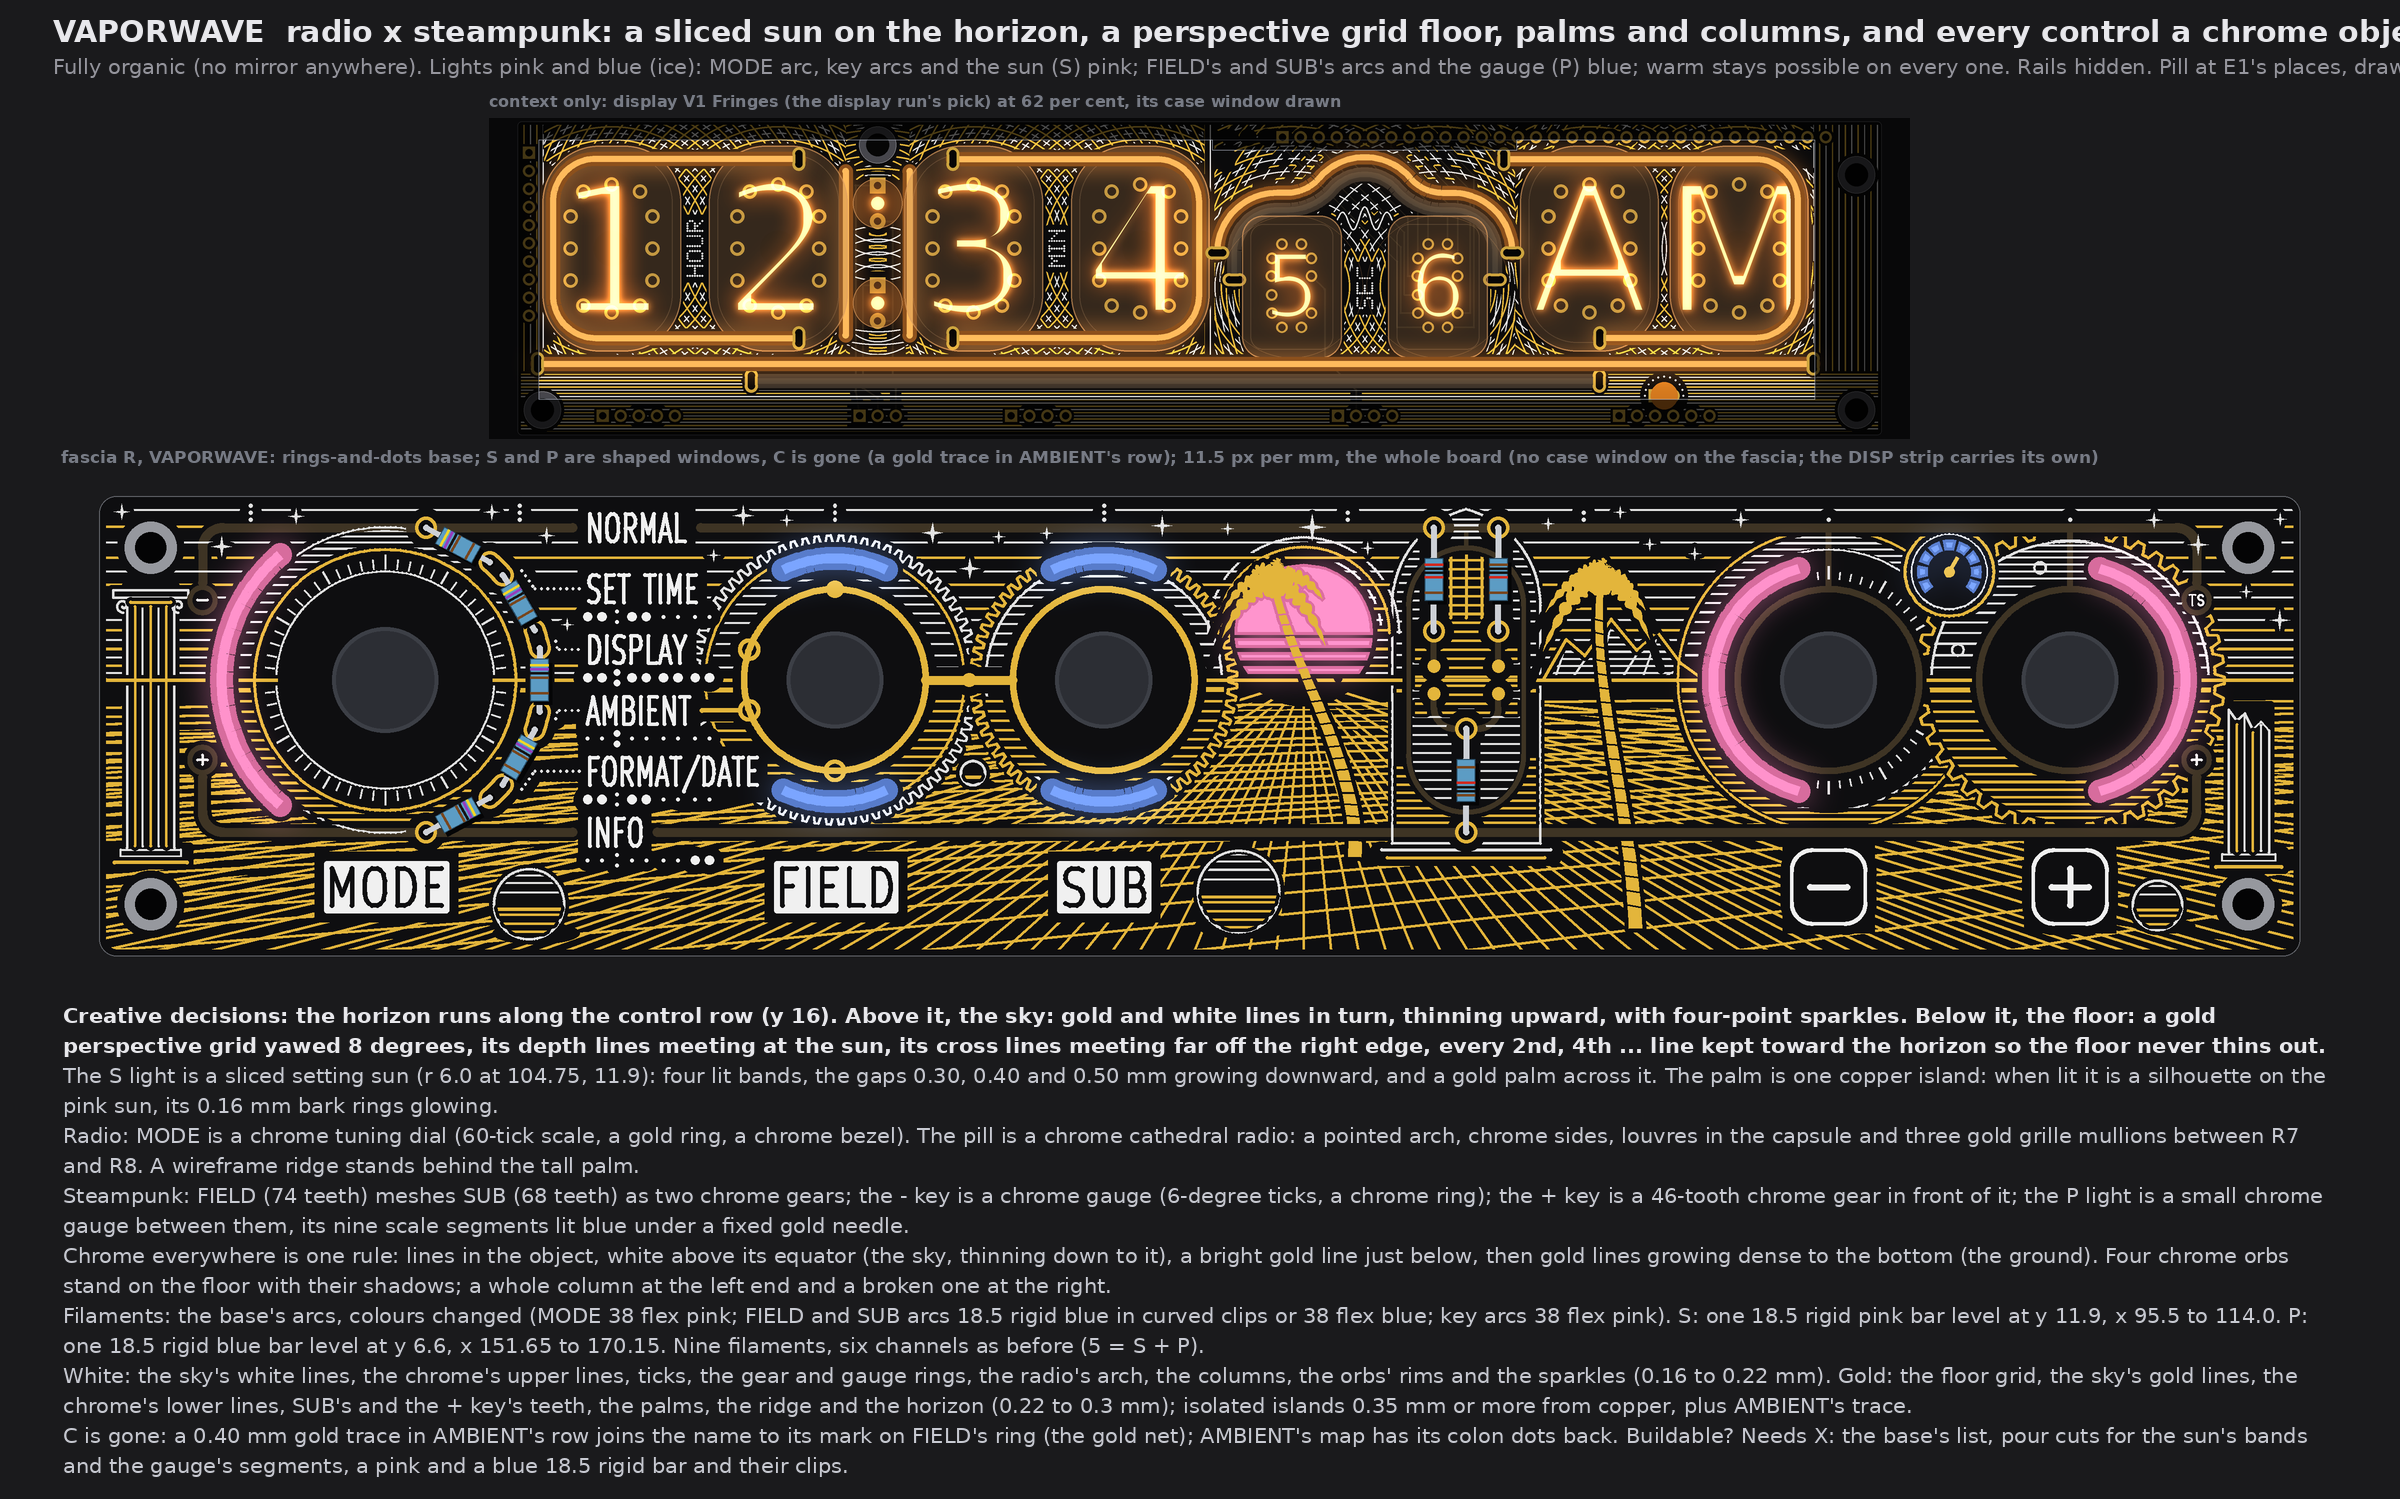
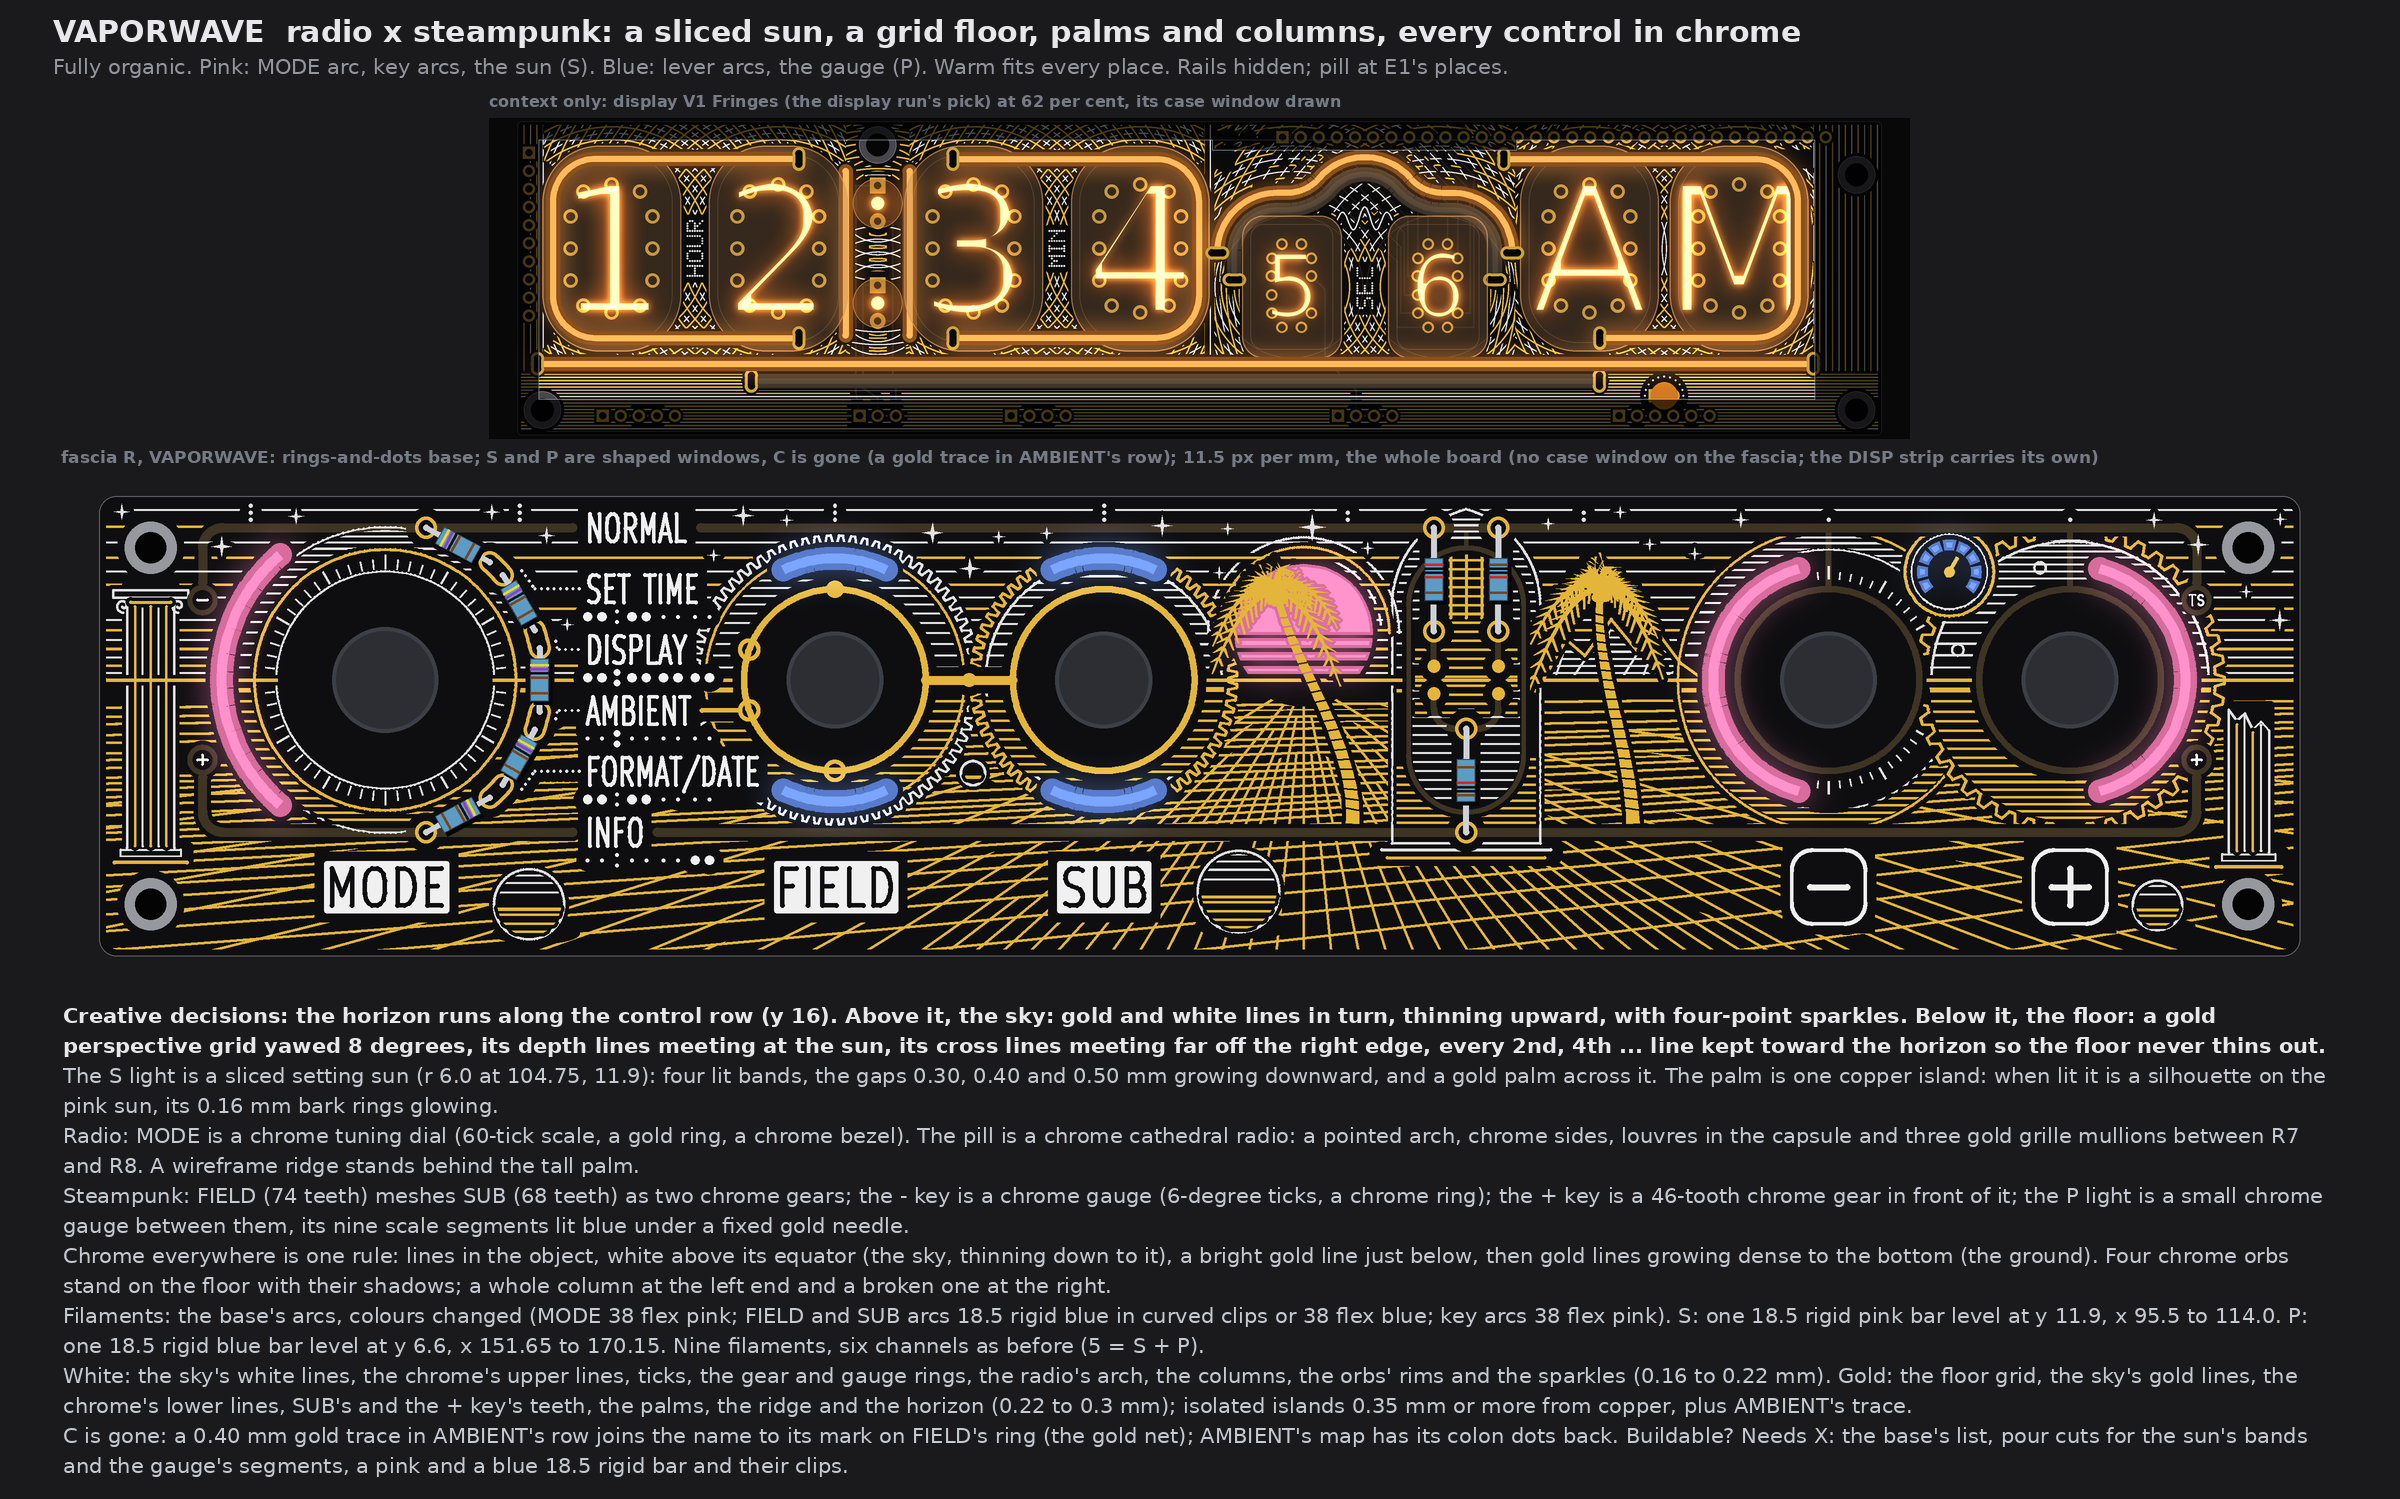
PCB/art: TS06 fascia VAPORWAVE write-up, detail, back view and contact sheet; face after the full-size look (drawings only)
Claude-Session: https://claude.ai/code/session_01WoV3gyAFgmtuk6W6Dr4bdA

diff --git a/PCB/art/TS06-FASCIA-VAPORWAVE.md b/PCB/art/TS06-FASCIA-VAPORWAVE.md
@@ -1,0 +1,172 @@
+# TS06 fascia, VAPORWAVE: radio and steampunk mixed into one final face (drawings only, nothing built)
+
+2026-10-14, run fascia-VAPORWAVE. The owner's words (22:2x UTC): "mix radio and steampunk for a final VAPORWAVE fascia option". One
+face, wild, the whole board full. It starts from `TS06-FASCIA-radio.md` and `TS06-FASCIA-steampunk.md` and their faces:
+* radio gives the tuning dial, the deco grille in a cathedral radio, and the wireframe ridge;
+* steampunk gives the meshed gears and the gauges;
+* the vaporwave idiom gives the rest: a sliced setting sun, a perspective grid floor to a horizon, palms and columns, chrome objects,
+  and pink and blue light.
+
+Queue changes A1 to A5 are in:
+* no top-edge dots: S and P light shaped windows (the sun and a gauge);
+* the pill and the rails are said below;
+* display V1 Fringes is in the strip above the face and above it on the contact sheet;
+* the AMBIENT cutout C is gone, with a gold trace in its row.
+
+The face is fascia R with the owner's rings-and-dots (front-merge section 6), drawn from the board file's copy that pass 4 used, at
+one scale (11.5 px per mm), windows lit. No board, schematic, fab, tool, 3D, firmware or spec file was touched. The scripts are scratch
+(copies of the radio and steampunk runs' base and checks, plus a new vaporwave script), not in the repo.
+
+Marks: *measured* is from the drawing's raster (23 px per mm) or the board file; *inferred* is arithmetic; *assumed* is my reading.
+
+![VAPORWAVE under display V1, and the four faces it mixes](TS06-FASCIA-VAPORWAVE/contact-sheet.png)
+
+## 1. What the face keeps
+
+* **Fixed:** the outline, holes, controls and their places, J1, the names, plates, key legends, tube maps, dot leaders and the
+  top-edge tube index; FIELD's and SUB's gold rings, the link, the four SUB marks on FIELD's ring and the GND via.
+* **Info first:**
+  * every name, legend, map and leader keeps 0.78 mm of calm ground (rule 0.75);
+  * E1's gold keeps its 0.75 frame;
+  * no art crosses a legend.
+* **No text** is added. The face has no numbers, no brands, no logos, no characters and no product or operating-system artwork. The
+  palms, columns, sun, grid, gears, gauges and radio are generic shapes drawn for this face.
+* **The AMBIENT cutout is gone (A5),** as in the radio and steampunk faces:
+  * window C at (45.04, 21.2) and its tail are removed;
+  * AMBIENT's tube map gets back its two colon dots;
+  * a **0.40 mm gold trace** runs level at y 18.645 from x 52.43 to 55.75, into the outer edge of AMBIENT's mark on FIELD's ring. So
+    it is on the gold net, which ties to GND through the link's via.
+  * *Measured:* 0.78 from the name and the map, 10.0 from other copper, 0.78 from the art.
+* **Channels on the new fascia connector** (J1 is full; front-merge items 10 and 11), grouping *assumed* as the earlier runs':
+  1 MODE, 2 FIELD up + down, 3 SUB up + down, 4 the two keys, **5 S + P (C dropped)**, 6 spare. Nothing comes from DISP. The face adds
+  no filament, so the six channels hold. A colour does not take a channel: each filament has one colour.
+* **5 V:** nine fascia filaments instead of ten, so 20 mA less than the base at 20 mA each (*inferred*).
+* **Fab note (once):** bare-FR4 windows still need the fab's yes (pass 1's coupon), and so does the fine copper island left inside
+  the sun's window (section 2). Not decided here.
+
+## 2. The face
+
+![VAPORWAVE](TS06-FASCIA-VAPORWAVE/vaporwave.png)
+
+* **Creative decisions (one line):** a sunset scene on the control row: a pink sliced sun (S) behind a gold palm, a gold perspective
+  grid floor, a lined sky with sparkles, and every control a chrome object: MODE a tuning dial, FIELD and SUB meshed gears, - a
+  gauge, + a gear, P a small gauge lit blue, the pill a cathedral radio.
+* **Fully organic.** Nothing in the art mirrors:
+  * the sun stands 9 mm right of the board's centre;
+  * the grid is yawed 8 degrees, so its cross lines meet far off the right edge, not at the sun;
+  * the two palms differ in height, lean and fronds;
+  * the four chrome orbs have four sizes (r 1.05 to 3.55) and free places;
+  * a whole column stands at the left end and a broken one at the right;
+  * the - key is a gauge and the + key a gear.
+* **The scene:**
+  * **The horizon** is a 0.3 mm gold line along the control row (y 16), behind every control.
+  * **The sky** above it: gold and white lines in turn, 0.6 mm apart at the horizon and thinning to about 1.6 mm at the top edge, with
+    28 four-point sparkles in white.
+  * **The floor** below it: a gold perspective grid. Its depth lines meet at the sun. Toward the horizon (and where the cells grow
+    thin at the far left) every 2nd, 4th ... line stays, so the floor never thins out. Lines keep 0.5 to 0.62 mm apart.
+  * **A wireframe ridge** (radio's grid in relief) stands on the horizon behind the tall palm: a gold ridge line, white terrace lines
+    and white facet lines.
+  * **The sun (the S light)** is a disc r 6.0 at (104.75, 11.9) cut off at the horizon. It is lit in four bands, and the mask gaps
+    between them grow downward (0.30, 0.40 and 0.50 mm). White and gold halo arcs ring its top half.
+  * **A gold palm stands across the sun.** It is one copper island, drawn over the sun's cut. When lit, it is a silhouette on the
+    pink sun, and its 0.16 mm bark rings glow as thin lines. *Measured:* the cut is 84.7 mm², 58.5 mm² of it lit, 26.2 mm² behind the palm.
+  * **A taller gold palm** stands right of the radio, and a whole and a broken column frame the ends (white outlines, flutes white and
+    gold in turn, volutes on the whole one). The trunks stop above the +5V rail, since the rails stay under the mask.
+* **The chrome objects** follow one rule (80s chrome):
+  * lines run across the object;
+  * above its equator they are white, dense at the top and thinning down to it (the sky);
+  * just below it there is a bright gold line;
+  * below that, gold lines grow dense to the bottom (the ground).
+  * **MODE, a chrome tuning dial (radio):** a 60-tick scale with longer ticks every 30 degrees, a gold ring, a chrome bezel and a
+    white rim. The MODE arc still closes the bezel on the left.
+  * **FIELD and SUB, two meshed chrome gears (steampunk):** 74 and 68 teeth on one module, their pitch circles meeting at the link.
+    FIELD has white teeth and a gold inner ring; SUB has gold teeth and a white inner ring. The lever arcs cut through the gears' webs.
+  * **The - key, a chrome gauge:** 6-degree ticks with longer ones every 30, a chrome ring and a gold rim.
+  * **The + key, a 46-tooth chrome gear** standing in front of the - key's ring, with six lightening holes in its web.
+  * **The P light, a small chrome gauge** at (160.9, 6.6): nine scale segments lit blue, a fixed gold needle, a white and a gold
+    bezel.
+  * **Four chrome orbs** on the floor, each with a shadow (the grid stops in a flat ellipse below it).
+* **Pill: E1's places, nothing moves; the circuit is unchanged.** The pill is drawn as a chrome cathedral radio:
+  * a pointed arch over the capsule and chrome sides;
+  * louvres inside the capsule at 0.78 mm pitch: gold and white in turn above y 19.5, white below (the gold stops 0.35 short of the
+    pads, dots and the A7 bus);
+  * three gold grille mullions between R7 and R8;
+  * a white and gold plinth below.
+* **Rails: hidden** under the mask, as the owner asked of kawaii-2's rails ("remove them"). The art runs over them; gold keeps 0.35 off
+  the copper.
+* **Filaments** (the base's layout; colours changed, sold list front-merge section 5):
+  * the MODE arc: 38 flex, **pink**;
+  * FIELD's and SUB's four arcs: 18.5 rigid **blue** in curved clips, or 38 flex blue;
+  * the two key arcs: 38 flex, **pink**;
+  * **S, the sun:** one 18.5 rigid **pink** bar, level at y 11.9, x 95.5 to 114.0;
+  * **P, the gauge:** one 18.5 rigid **blue** bar, level at y 6.6, x 151.65 to 170.15.
+  * **Warm stays possible** on every one: the same places take warm white bars or yellow flex in the same clips. The art does not
+    change.
+* **White (one line):** the sky's white lines, the chrome's upper lines, ticks, gear and gauge rings, the radio's arch, the columns,
+  the orbs' rims, the ridge's terraces and the sparkles (0.16 to 0.22 mm); 263 mm² (*measured*).
+* **Gold (one line):** the floor grid, the sky's gold lines, the chrome's lower lines, SUB's and the + key's teeth, the palms, the
+  ridge, the horizon and the gauge's needle (0.22 to 0.3 mm lines, the palms as fills); 826 mm² (*measured*). All are isolated islands
+  0.35 mm or more from copper, plus AMBIENT's trace on the gold net.
+* **Buildable? Needs X:**
+  * the base's list (front-merge items 9 to 11);
+  * pour cuts for the sun's four bands (the palm's island left inside the cut) and the gauge's nine segments;
+  * a pink and a blue 18.5 rigid bar and two clip pairs;
+  * pink and blue arcs instead of warm.
+
+![VAPORWAVE at 2x](TS06-FASCIA-VAPORWAVE/detail-2x.png)
+
+## 3. The light base and what the face changes
+
+![The fascia's back: base and changes](TS06-FASCIA-VAPORWAVE/lights-back.png)
+
+| Change against the base | Filament (sold list), form | Channel | On the fascia's back |
+|---|---|---|---|
+| **C and its tail removed** (A5) | none | 5 loses C | C's pour cut closes |
+| **S**: the dot (108.6, 4.5) becomes the sliced sun round (104.75, 11.9), moved 3.85 left and 7.4 down | 18.5 rigid **pink**, level at y 11.9, x 95.5 to 114.0 | 5 | 4 band cuts with the palm's copper left inside, 2 clips |
+| **P**: the dot (160.9, 4.5) becomes the gauge's nine segments round (160.9, 6.6), 2.1 down | 18.5 rigid **blue**, level at y 6.6, x 151.65 to 170.15 | 5 | 9 segment cuts, 2 clips |
+| MODE arc colour | 38 flex **pink** (was warm) | 1 | none |
+| FIELD and SUB arcs colour | 18.5 rigid **blue** in curved clips, or 38 flex blue (was warm) | 2, 3 | none |
+| Key arcs colour | 38 flex **pink** (was warm) | 4 | none |
+
+**Colours the face ships with:** pink + blue (the ice set's blue and the rose set's pink, front-merge section 5). No warm filament,
+but warm fits every place.
+
+**Bar fit, *measured*** on the art model and the ordered board (`R-open`):
+
+| Bar (body 2.0 wide) | To R6 to R8's plated pads (rule 0.4) | To a lever's or key's footprint (r 6.2) | To a back track | Vias near |
+|---|---|---|---|---|
+| S, the sun | 1.14 (R7's lower pad, 116.09, 11.77) | 2.50 | 12.3 | none |
+| P, the gauge | 29.2 | 2.29 | 15.3 | none |
+
+R6 to R8 are 1206 parts elsewhere on the ordered board, so the pad gaps above are the art model's (E1's through-hole places).
+
+## 4. The checks (*measured* on the raster, 23 px per mm)
+
+| Check | Rule | VAPORWAVE |
+|---|---|---|
+| White, gold to a name, plate, key legend, tube map, leader or index dot | 0.75 | 0.80, 0.78 |
+| White, gold to E1's exposed gold (rings, link, marks, pads, AMBIENT's trace) | 0.30 (frame 0.75 drawn) | 0.74, 0.74 |
+| Pattern gold to copper | 0.30 | 0.35 |
+| White, gold to a lit window | 0.35 | 0.39, 0.39 |
+| White to the pattern's gold | 0.30 | 0.31 |
+| Lit window to copper; to a legend | 0.30 | 0.65; 1.17 |
+| AMBIENT's trace to a legend; to other copper | 0.75; 0.30 | 0.78; 10.0 |
+| The palms' gold to copper; to a legend; to another window | 0.30; 0.75; 0.35 | 0.39; 2.98; 3.26 |
+| Free board within 1.2 mm of some ink | (no empty space) | 98.8 % |
+
+* White over the masked rails and lugs is allowed, as in E1, so white to copper reads 0.
+* What stays dark is the ring of mask between each knob and its window, and the orbs' shadows.
+* The palm across the sun is inside the sun's cut by design (section 2), so it is left out of the "to a lit window" row.
+
+## 5. Left open, assumed
+
+* *Assumed:* the S and P lights are 18.5 rigid bars (the shortest sold), held in printed clips at their ends.
+* *Assumed:* the sun's top band (6.15 mm tall) lights evenly enough from a 2.0 mm bar across its middle. The bench decides. If its top
+  is dimmer, it reads as the sun's own gradient.
+* *Assumed:* the pink and blue filaments run from the same series resistor as the warm ones. Their forward voltage may differ; the
+  bench sets the current.
+* The palm across the sun is front copper (ENIG) on bare FR4 inside the window. Its leaflets are 0.16 to 0.34 mm wide and its bark
+  rings are 0.16 mm gaps. Both are at the fine end of the fab's copper rules; the fab's yes covers it with the windows.
+* The pattern's gold is isolated islands (no net). Stems to GND can be added if the fab wants no floating copper; not drawn.
+* The smallest strokes (0.16 mm silk) are at the fab's silk limit used before (0.15).
+* Not checked: KiCad DRC (no board file was edited).
